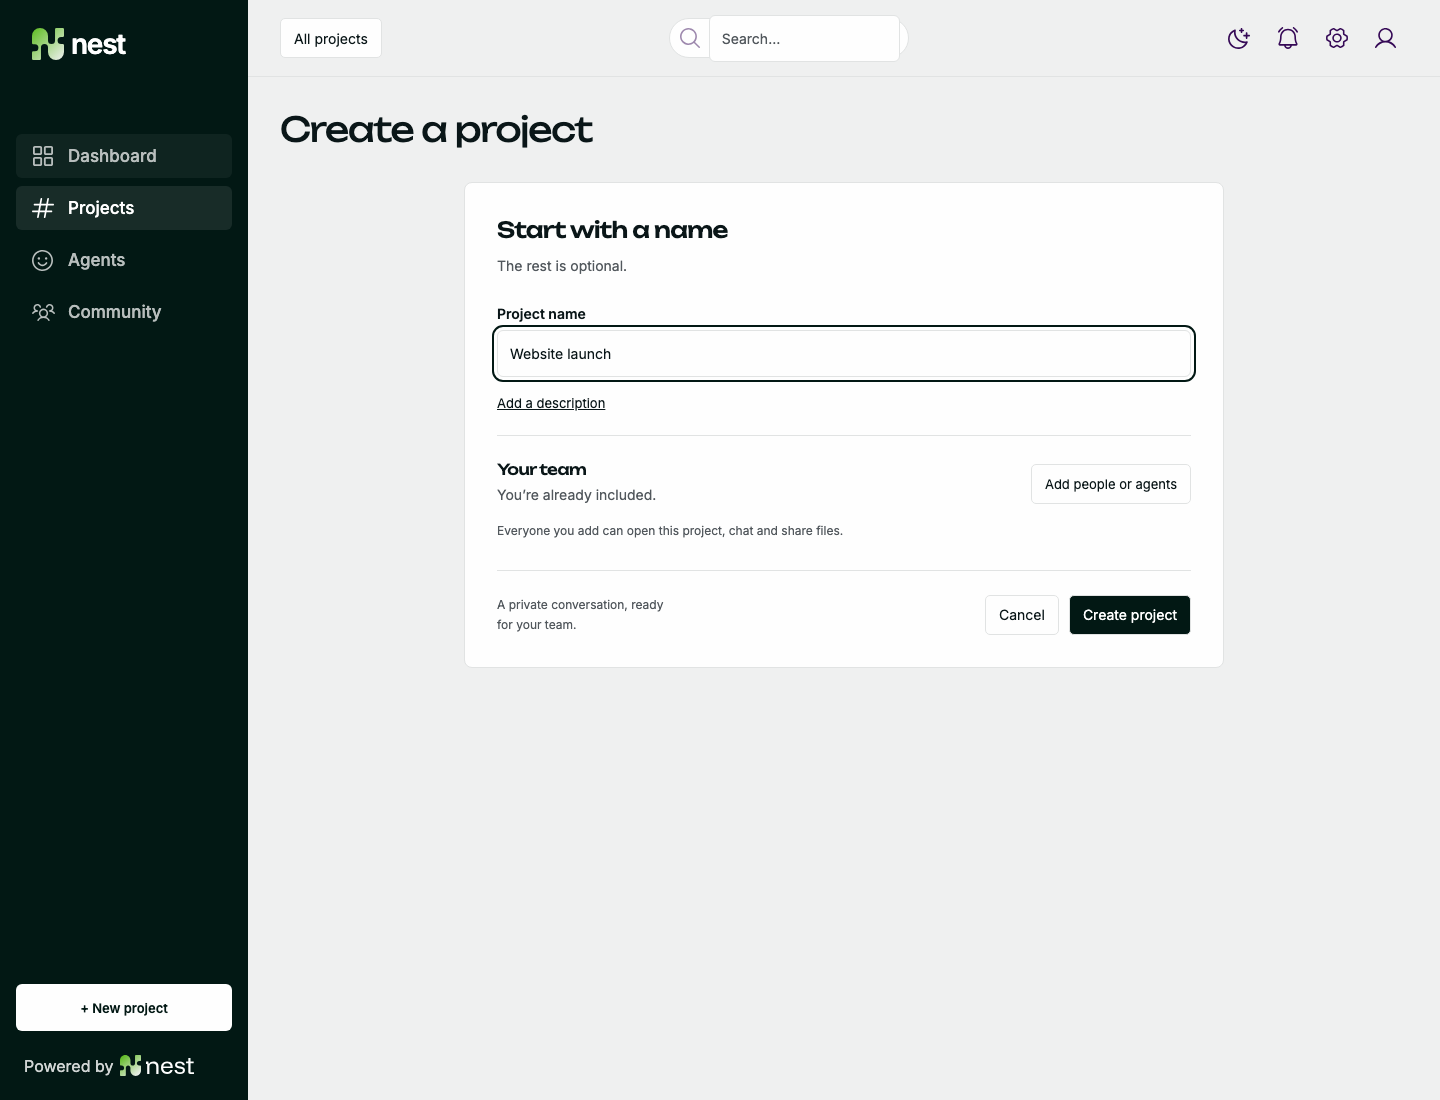
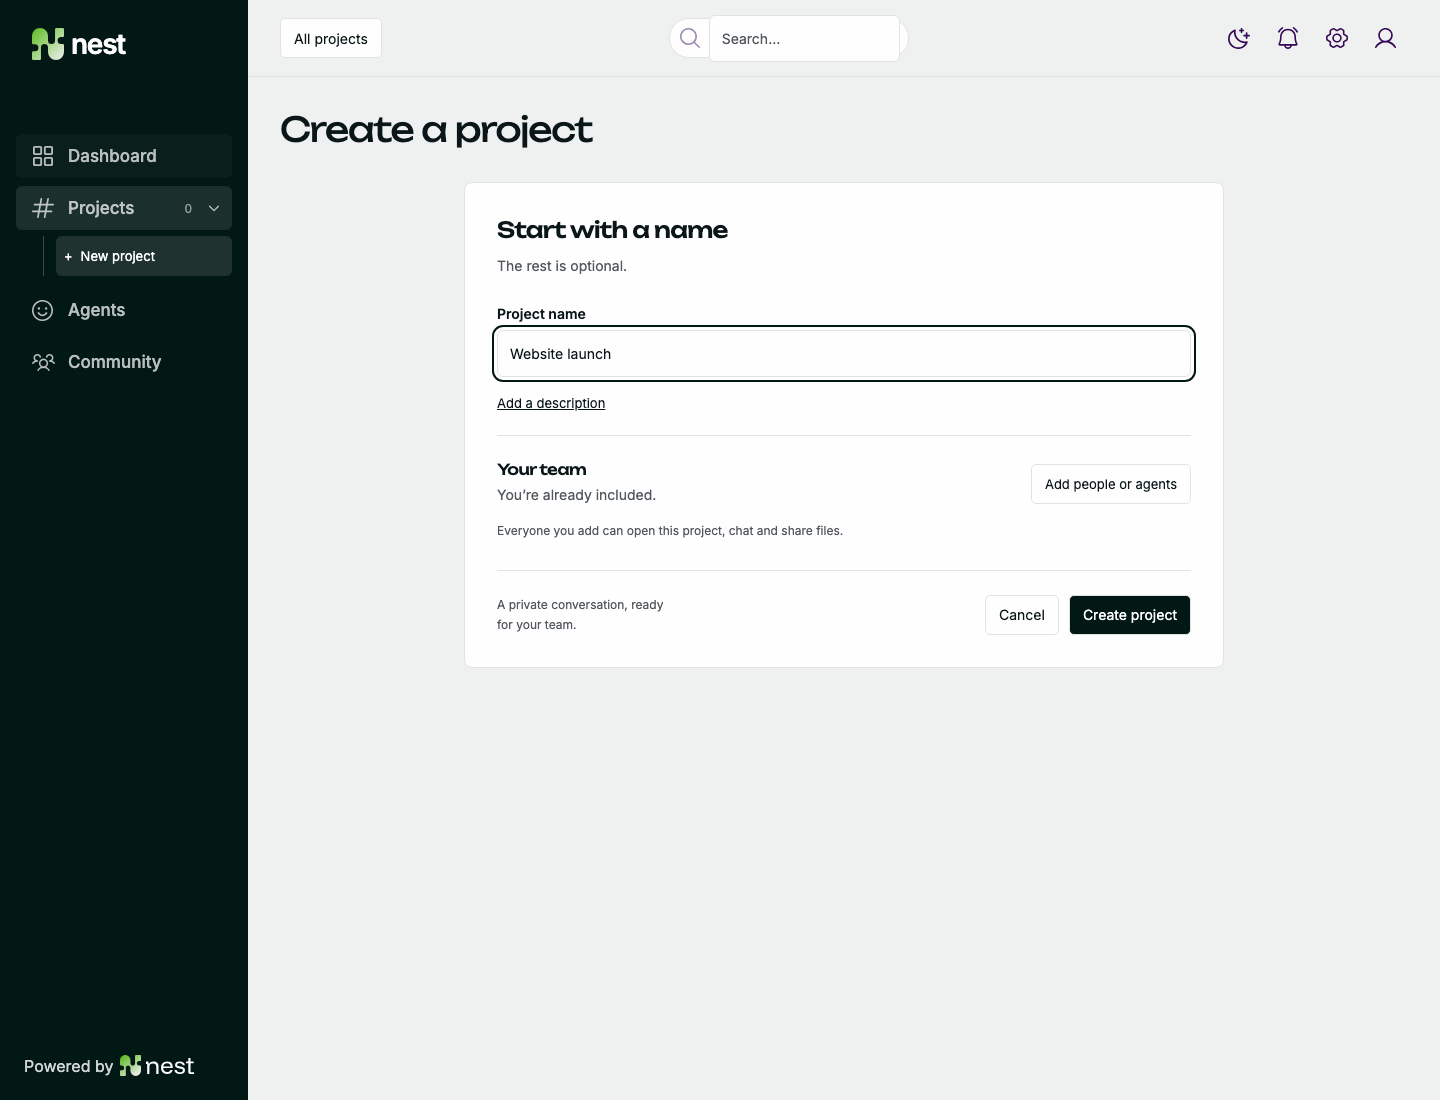
feat(navigation): nest project shortcuts under Projects

Changed region(s): [[0.0312, 0.1855, 0.1875, 0.34], [0.0, 0.8964, 0.1875, 0.9582]]

diff --git a/tests/browser/projects.ts b/tests/browser/projects.ts
@@ -211,7 +211,8 @@ try {
     await page.getByRole('button',{name:'Approve deliverable',exact:true}).click();
     await page.getByText('Approved by a human. This task is complete.',{exact:true}).waitFor();
     await page.reload();await page.getByText('Approved by a human. This task is complete.',{exact:true}).waitFor();
-    assert.equal(await nav.getByRole('button',{name:'Projects',exact:true}).getAttribute('aria-current'),'page');
+    assert.equal(await nav.getByRole('button',{name:'Website launch',exact:true}).getAttribute('aria-current'),'page');
+    assert.equal(await nav.getByRole('button',{name:'Projects',exact:true}).getAttribute('aria-current'),null);
     await page.screenshot({path:join(screenshots,'project-approved.png'),fullPage:true});
     await nav.getByRole('button',{name:'Projects',exact:true}).click();
     await page.getByText('Existing conversations (1)',{exact:true}).click();
@@ -227,7 +228,7 @@ try {
     await page.goBack();await page.getByText('Approved by a human. This task is complete.',{exact:true}).waitFor();
     await page.setViewportSize({width:390,height:844});await page.getByRole('button',{name:'New task +',exact:true}).waitFor({state:'visible'});assert(await page.evaluate(()=>document.documentElement.scrollWidth<=innerWidth));
     await page.screenshot({path:join(screenshots,'project-mobile.png'),fullPage:true});
-    await page.getByRole('button',{name:'Menu',exact:true}).click();assert.equal(await nav.getByRole('button',{name:'Projects',exact:true}).getAttribute('aria-current'),'page');
+    await page.getByRole('button',{name:'Menu',exact:true}).click();assert.equal(await nav.getByRole('button',{name:'Website launch',exact:true}).getAttribute('aria-current'),'page');
     assert.deepEqual(errors,[]);
     const id=new URL(deepLink).searchParams.get('project')!;
     const detail=product.store.projects.detail(product.store.projects.project(id)!);
@@ -247,6 +248,51 @@ try {
     await page.getByRole('heading',{name:'Just a name',level:1,exact:true}).waitFor();
     const solo=product.store.projects.projects((await (await product.app.request('/api/auth/me',{headers})).json()).id).find(project=>project.name==='Just a name')!;
     assert.equal(solo.description,'');
+    // The sidebar is a bounded shortcut list. The directory owns the full catalog.
+    for(const name of ['Design system','Launch comms','Customer research','Partnerships','Product strategy','Website analytics','Quarterly planning','A long project name for cross-functional collaboration across the whole team']){
+      const response=await product.app.request('/api/projects',{method:'POST',headers,body:JSON.stringify({id:crypto.randomUUID(),name,collaboration:'team'})});assert.equal(response.status,201);
+    }
+    await page.reload();await page.getByRole('heading',{name:'Just a name',level:1,exact:true}).waitFor();
+    const shortcuts=nav.getByRole('list',{name:'Project shortcuts'});
+    await page.waitForFunction(()=>document.querySelectorAll('.project-navigation-link').length===5);
+    assert.equal(await shortcuts.locator('.project-navigation-link').count(),5);
+    assert.equal(await shortcuts.getByRole('button',{name:'Just a name',exact:true}).getAttribute('aria-current'),'page','Active project stays visible outside the newest five');
+    await page.screenshot({path:join(screenshots,'project-navigation-desktop.png'),fullPage:true});
+    const currentUrl=page.url();
+    await nav.getByRole('button',{name:'Collapse projects',exact:true}).click();
+    assert.equal(page.url(),currentUrl,'Disclosure does not navigate');
+    assert.equal(await nav.getByRole('button',{name:'Expand projects',exact:true}).getAttribute('aria-expanded'),'false');
+    assert(!(await shortcuts.isVisible()));
+    await nav.getByRole('button',{name:'Expand projects',exact:true}).focus();await page.keyboard.press('Enter');
+    assert(await shortcuts.isVisible());
+    await shortcuts.getByRole('button',{name:'View all projects',exact:true}).click();
+    await page.getByRole('heading',{name:'Projects',level:1,exact:true}).waitFor();
+    await page.waitForFunction(()=>document.querySelectorAll('.project-grid .project-summary').length===10);
+    await page.getByRole('textbox',{name:'Search projects',exact:true}).fill('Website launch');
+    await page.waitForFunction(()=>document.querySelectorAll('.project-grid .project-summary').length===1);
+    await page.locator('.project-grid').getByRole('button').click();
+    await page.getByRole('heading',{name:'Website launch',level:1,exact:true}).waitFor();
+    assert.equal(await shortcuts.getByRole('button',{name:'Website launch',exact:true}).getAttribute('aria-current'),'page');
+    assert.equal(await nav.locator('[aria-current="page"]').count(),1,'Only the current destination is marked as a page');
+    await nav.getByRole('button',{name:'Dashboard',exact:true}).click();
+    await page.getByRole('heading',{name:'Dashboard',level:1,exact:true}).waitFor();
+    assert(await shortcuts.isVisible(),'Project shortcuts stay available outside Projects');
+    await page.screenshot({path:join(screenshots,'project-navigation-dashboard.png'),fullPage:true});
+    const desktopShortcut=await shortcuts.locator('.project-navigation-link').nth(1).innerText();
+    await shortcuts.locator('.project-navigation-link').nth(1).click();
+    await page.getByRole('heading',{name:desktopShortcut.trim().replace(/^#\s*/,''),level:1,exact:true}).waitFor();
+    await page.setViewportSize({width:390,height:844});await page.getByRole('button',{name:'Menu',exact:true}).click();
+    assert(await shortcuts.isVisible());assert(await page.evaluate(()=>document.documentElement.scrollWidth<=innerWidth));
+    await page.waitForFunction(()=>document.querySelector('.sidebar-mobile-open')!.getBoundingClientRect().x>=0);
+    await page.screenshot({path:join(screenshots,'project-navigation-mobile.png'),fullPage:true});
+    await shortcuts.getByRole('button',{name:'New project',exact:true}).click();
+    await page.getByRole('heading',{name:'Create a project',level:1,exact:true}).waitFor();
+    assert.equal(await page.locator('.sidebar-mobile-open').count(),0,'Selecting a mobile destination closes the drawer');
+    assert.equal(new URL(page.url()).searchParams.get('create'),'project');
+    await page.setViewportSize({width:1440,height:1100});
+    assert.equal(await shortcuts.getByRole('button',{name:'New project',exact:true}).getAttribute('aria-current'),'page');
+    assert.deepEqual(errors,[]);
+    console.log('PASS: nested project navigation, keyboard disclosure, bounded shortcuts with active project, full directory search, cross-view access, single current page and mobile drawer.');
     console.log('PASS: name-only creation, optional description, searchable people/agents, roster retry, selected chips, partial input preservation, exact creation retry and desktop/mobile creation screens.');
     console.log(`PASS: automatic private chat, invited-user discovery, uploads/files, members, chat-first project tabs, legacy links, standalone chats, task dispatch/revision/approval, persistence, history and mobile. Screenshots: ${screenshots}`);
   } finally {await browser.close();}

diff --git a/apps/user-ui/src/components/ProjectNavigation.tsx b/apps/user-ui/src/components/ProjectNavigation.tsx
@@ -1,0 +1,48 @@
+import {useEffect, useId, useState} from 'react';
+import type {Project} from '@nest/schemas';
+import {DesignIcon} from '../Dashboard';
+import './project-navigation.css';
+
+type Props = {
+  projects: Project[];
+  currentProjectId: string | null;
+  inProjects: boolean;
+  creating: boolean;
+  unreadCounts: Record<string, number>;
+  onBrowse: () => void;
+  onSelect: (id: string) => void;
+  onCreate: () => void;
+};
+const shortcutLimit = 5;
+
+export function ProjectNavigation({projects, currentProjectId, inProjects, creating, unreadCounts, onBrowse, onSelect, onCreate}: Props) {
+  const [expanded, setExpanded] = useState(true);
+  const childrenId = useId();
+  useEffect(() => {
+    if (currentProjectId || creating) setExpanded(true);
+  }, [currentProjectId, creating]);
+  const ordered = [...projects].sort((a, b) => b.createdAt - a.createdAt || a.id.localeCompare(b.id));
+  const shortcuts = ordered.slice(0, shortcutLimit);
+  const current = ordered.find(project => project.id === currentProjectId);
+  // Keep the open project in context without allowing the shortcut list to grow.
+  if (current && !shortcuts.some(project => project.id === current.id)) shortcuts.splice(shortcutLimit - 1, 1, current);
+  function browse() { setExpanded(true); onBrowse(); }
+  return <div className="project-navigation">
+    <div className={`project-navigation-parent${inProjects ? ' is-active' : ''}`}>
+      <button type="button" className="project-navigation-browse" aria-current={inProjects && !currentProjectId && !creating ? 'page' : undefined} onClick={browse}>
+        <DesignIcon name="conversations"/><span>Projects</span><span className="project-navigation-count" aria-hidden="true">{projects.length}</span>
+      </button>
+      <button type="button" className="project-navigation-toggle" aria-label={expanded ? 'Collapse projects' : 'Expand projects'} aria-expanded={expanded} aria-controls={childrenId} onClick={() => setExpanded(value => !value)}>
+        <svg width="14" height="14" viewBox="0 0 16 16" fill="none" aria-hidden="true" style={{transform:expanded ? 'rotate(90deg)' : undefined}}><path d="m6 3 5 5-5 5" stroke="currentColor" strokeWidth="1.5" strokeLinecap="round" strokeLinejoin="round"/></svg>
+      </button>
+    </div>
+    <ul id={childrenId} className="project-navigation-children" aria-label="Project shortcuts" hidden={!expanded}>
+      {shortcuts.map(project => <li key={project.id}><button type="button" className="project-navigation-link" aria-current={currentProjectId === project.id ? 'page' : undefined} onClick={() => onSelect(project.id)} title={project.name}>
+        <span className="project-navigation-marker" aria-hidden="true">#</span><span className="project-navigation-name">{project.name}</span>
+        {unreadCounts[project.channelId] > 0 && <span className="project-navigation-unread" aria-label={`${unreadCounts[project.channelId]} unread messages`}>{unreadCounts[project.channelId]}</span>}
+      </button></li>)}
+      {projects.length > shortcutLimit && <li><button type="button" className="project-navigation-all" onClick={browse}>View all projects<span aria-hidden="true">→</span></button></li>}
+      <li><button type="button" className="project-navigation-create" aria-current={creating ? 'page' : undefined} onClick={onCreate}><span aria-hidden="true">+</span>New project</button></li>
+    </ul>
+  </div>;
+}

diff --git a/apps/user-ui/src/App.tsx b/apps/user-ui/src/App.tsx
@@ -9,6 +9,7 @@ import {GoogleSignIn} from '../../nest-brand/GoogleSignIn';
 import { Community } from "./Community";
 import type { Project } from "@nest/schemas";
 import { Projects } from "./Projects";
+import { ProjectNavigation } from "./components/ProjectNavigation";
 import { Agents } from "./Agents";
 import { AgentAvatar, AgentAvatarChoices } from "./components/AgentAvatar";
 import { Dashboard, DesignIcon } from "./Dashboard";
@@ -2512,12 +2513,10 @@ export default function App() {
         <InstanceBrand />
         <nav className="product-nav" aria-label="Main navigation">
           <button aria-current={view === "dashboard" ? "page" : undefined} onClick={() => selectChannel(null)}><DesignIcon name="dashboard" />Dashboard</button>
-          <button aria-current={(view === "projects" || view === "workspace") ? "page" : undefined} onClick={() => selectProject(null)}><DesignIcon name="conversations" />Projects</button>
+          <ProjectNavigation projects={projectIndex} currentProjectId={view === "projects" ? selectedProject : null} inProjects={view === "projects" || view === "workspace"} creating={view === "projects" && !selectedProject && projectTab === "new"} unreadCounts={unreadCounts} onBrowse={() => selectProject(null)} onSelect={id => selectProject(id)} onCreate={() => selectProject(null, null, "new")} />
           <button aria-current={view === "agents" ? "page" : undefined} onClick={() => selectAgent(null)}><DesignIcon name="agents" />Agents</button>
           <button aria-current={view === "community" ? "page" : undefined} onClick={()=>selectCommunity(null)}><DesignIcon name="community" />Community</button>
         </nav>
-
-        {view === "projects" && <section className="sidebar-section project-sidebar-list" aria-label="Your projects">{projectIndex.map(project => <button key={project.id} aria-current={selectedProject === project.id ? "page" : undefined} onClick={() => selectProject(project.id)}># {project.name}{unreadCounts[project.channelId] ? ` (${unreadCounts[project.channelId]})` : ""}</button>)}</section>}
 
         {view === "workspace" && <section className="sidebar-section">
           <div className="channel-list">
@@ -2596,10 +2595,6 @@ export default function App() {
             ) : null}
           </div>
         </section>}
-
-        <section className="sidebar-section start-conversation">
-          <button className="new-conversation-button" onClick={() => selectProject(null, null, "new")}><span>+ New project</span><kbd>Cmd+K</kbd></button>
-        </section>
 
         <div className="instance-sidebar-footer dashboard-attribution"><span>Powered by</span><DesignIcon name="nest-mark" /><img src={`${import.meta.env.BASE_URL}design/nest-wordmark.svg`} alt="Nest" /></div>
       </aside>

diff --git a/apps/user-ui/src/components/project-navigation.css b/apps/user-ui/src/components/project-navigation.css
@@ -1,0 +1,17 @@
+.project-navigation { min-width:0; }
+.project-navigation-parent { display:flex; align-items:center; border-radius:6px; }
+.project-navigation-parent.is-active { background:color-mix(in srgb,var(--instance-on-primary) 10%,transparent); }
+.product-nav .project-navigation-browse { flex:1; min-width:0; padding-right:4px; }
+.product-nav .project-navigation-toggle { flex:0 0 36px; padding:0; justify-content:center; min-height:44px; }
+.project-navigation-count { margin-left:auto; font-size:12px; font-weight:400; opacity:.7; }
+.project-navigation-children { list-style:none; margin:6px 0 4px 27px; padding:0 0 0 12px; border-left:1px solid color-mix(in srgb,var(--instance-on-primary) 22%,transparent); }
+.project-navigation-children[hidden] { display:none; }
+.project-navigation-children li { margin:2px 0; min-width:0; }
+.product-nav .project-navigation-children button { width:100%; min-width:0; gap:8px; min-height:40px; padding:8px; font-size:13px; font-weight:400; }
+.project-navigation-marker { opacity:.55; font-size:15px; }
+.project-navigation-name { overflow:hidden; text-overflow:ellipsis; white-space:nowrap; }
+.project-navigation-unread { flex-shrink:0; margin-left:auto; padding:2px 5px; border-radius:4px; background:color-mix(in srgb,var(--instance-on-primary) 15%,transparent); font-size:11px; }
+.product-nav .project-navigation-link[aria-current="page"] { font-weight:600; }
+.product-nav .project-navigation-all { justify-content:space-between; }
+.product-nav .project-navigation-create { opacity:.9; }
+.product-nav button:focus-visible { outline:2px solid currentColor; outline-offset:2px; }

diff --git a/apps/user-ui/src/projects.css b/apps/user-ui/src/projects.css
@@ -46,9 +46,6 @@
 .project-file-list { padding:0; list-style:none; }
 .project-file-list li { padding:16px 0; border-bottom:1px solid var(--nest-border); overflow-wrap:anywhere; }
 .project-file-list a { color:var(--nest-text); }
-.project-sidebar-list { display:grid; gap:6px; }
-.project-sidebar-list button { color:inherit; text-align:left; border:0; border-radius:6px; padding:10px; background:transparent; overflow-wrap:anywhere; cursor:pointer; }
-.project-sidebar-list button[aria-current="page"] { background:var(--nest-sidebar-selected); font-weight:600; }
 .dashboard-projects { margin-bottom:28px; }
 @media(max-width:760px) { .project-tabs { gap:0; } .project-tabs button { flex:1; padding:10px; } .project-chat .workspace { height:calc(100dvh - 210px); } }
 

diff --git a/apps/user-ui/src/dashboard.css b/apps/user-ui/src/dashboard.css
@@ -45,31 +45,14 @@
   display: block;
   flex-shrink: 0;
 }
-.product-shell .start-conversation {
-  margin-top: auto;
-}
-.product-shell .new-conversation-button {
-  background: var(--nest-white);
-  color: var(--instance-primary);
-  justify-content: center;
-  min-height: 47px;
-  border-radius: 6px;
-  font-weight: 600;
-}
-.product-shell .new-conversation-button kbd {
-  display: none;
-}
 .product-shell .account-actions {
   flex-wrap: wrap;
   gap: 12px;
   margin-top: 0;
 }
-.product-shell.dashboard-shell > .sidebar > .start-conversation {
-  flex: 0 0 auto;
-  margin-top: auto;
-}
 .product-shell .instance-sidebar-footer {
-  margin-top: 0;
+  margin-top: auto;
+  flex-shrink: 0;
   padding: 0 8px;
 }
 .product-shell .powered-by-nest {

diff --git a/docs/ROADMAP.md b/docs/ROADMAP.md
@@ -349,3 +349,24 @@ does not send email or provision accounts.
 The request limit is 50 selected members. Persistent engine/identity failures during
 reserved setup need operator recovery; prior grants are not rolled back automatically.
 No production deployment is claimed by the PR's isolated browser checks.
+
+## Project navigation hierarchy — implemented for review
+
+The information architecture is collection → project → Chat/Files/Members.
+Projects is one persistent, collapsible parent within the main navigation. Its
+children are visually indented beneath it, before Agents/Community; selecting a
+project does not reveal an unrelated list elsewhere. New project is scoped to
+this group rather than the sidebar footer.
+
+The sidebar shows at most five creation-ordered shortcuts, keeping the open project
+visible. View all projects opens the existing searchable directory. This keeps
+navigation manageable as the list grows without adding another project hierarchy
+or multiple chats per project. Keyboard disclosure, single current-page state,
+mobile selection and ten-project fixtures are covered in the browser suite.
+
+This bounds displayed navigation only: the current API still returns all accessible
+projects. Server pagination and directory sorting/filtering should precede very
+large tenant catalogs. User-chosen pins and project archival can follow observed
+usage; folder hierarchies are not introduced in this slice. Figma workspace
+`849:599` remains the workspace reference; this is an intentional information
+architecture refinement rather than a new exact Figma-frame implementation.

diff --git a/docs/SPEC.md b/docs/SPEC.md
@@ -183,7 +183,19 @@ or replacement to-do sidebar is introduced.
 `tab=tasks&task=<id>` restores a task; older task URLs without `tab` still work.
 Tabs, reload and browser history preserve project context. Existing `?channel=`
 links for an owned project open its Chat section; other channels remain accessible under Projects → Existing conversations.
-The sidebar and dashboard avoid listing owned project chats twice. The layout
+The sidebar and dashboard avoid listing accessible project chats twice.
+Projects is a single collapsible parent inside the main navigation, directly above
+Agents and Community. Its indented shortcuts stay available across product views,
+show at most five projects ordered by creation time, and retain the current project
+in place of the fifth shortcut when necessary. Only the current destination has
+`aria-current="page"`; the parent uses a contextual highlight for an open project.
+The separate disclosure toggles without navigating. Clicking Projects opens the
+full searchable directory and expands the group. New project lives inside the
+group; Cmd/Ctrl+K still opens creation. View all projects appears when there are
+more than five accessible projects. Long names truncate with a full-name title,
+unread counts remain attached to their project, and the mobile drawer closes on
+selection. This bounds sidebar rendering, not the underlying project-list API:
+server pagination, pinning, archival and project folders are deferred. The layout
 follows case-study reference `849:599` with shared tokens and original avatars;
 budget, health and time estimates remain deferred.
 

diff --git a/docs/images/validation/project-navigation/README.md b/docs/images/validation/project-navigation/README.md
@@ -1,0 +1,12 @@
+# Project navigation validation
+
+Screenshots use disposable synthetic fixtures and default Nest branding.
+`before-desktop.png` shows the prior disconnected sidebar from PR35's first
+implementation. Final desktop/mobile/dashboard images show the Projects group
+with ten fixture projects, a five-project shortcut limit, View all projects and
+New project nested under Projects. The active older project is retained in the
+desktop list. Mobile capture waits for the existing drawer transition to finish.
+
+Capture with `node --import tsx tests/browser/projects.ts`. This uses real
+Nest/OrgOps HTTP handlers and disposable databases; it invokes no runner/model.
+No production tenant data or credentials are included.
